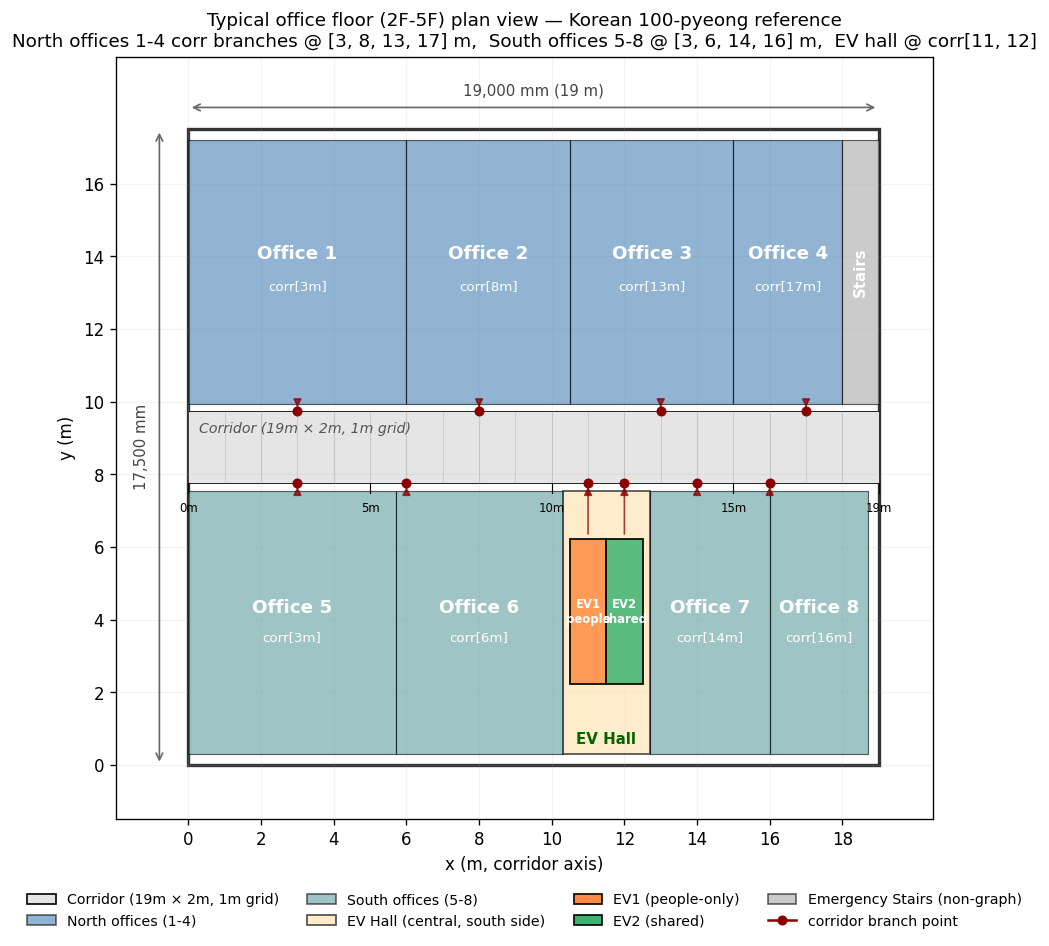
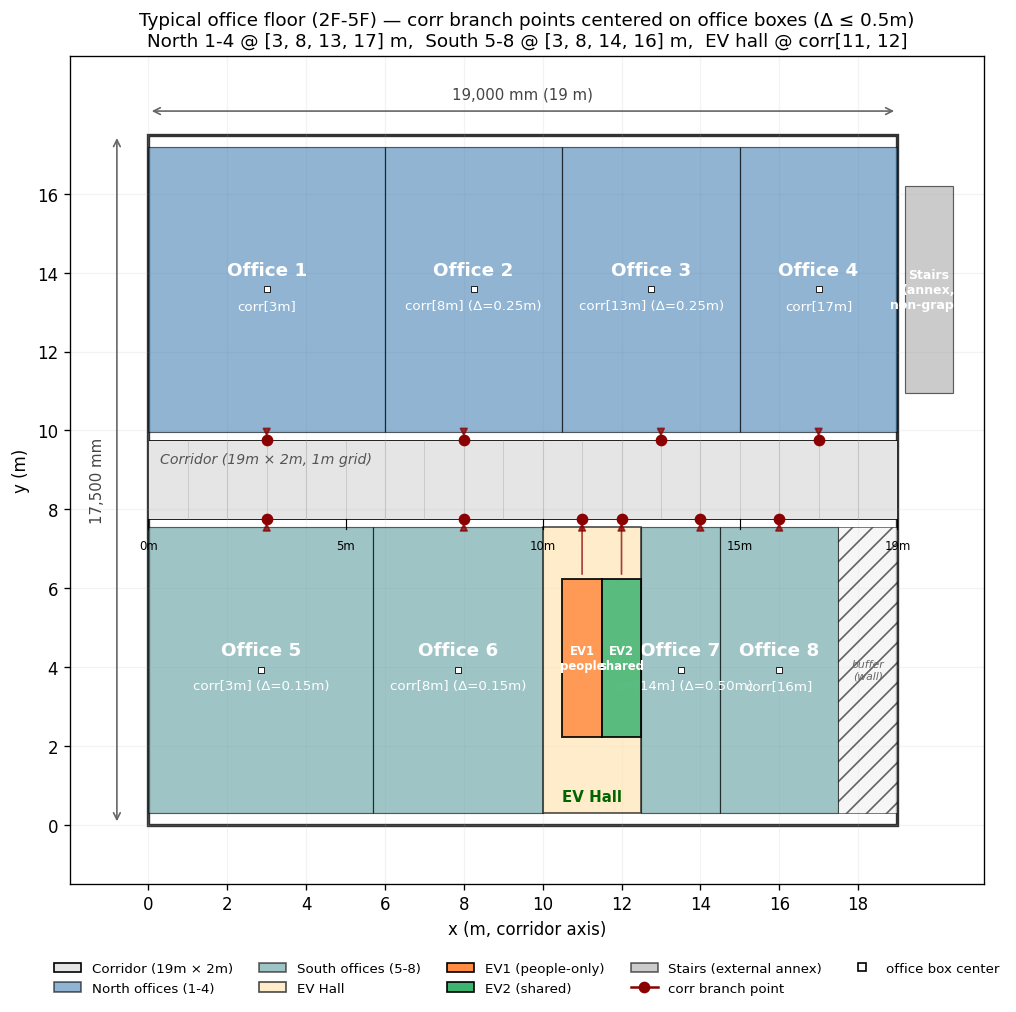
fix Office 6 graph position + center all corr branch points on office boxes
User flagged that Office 4, 6, 8 branch points did not align with their
visual office centers. Verified and fixed:

  before:
    Office 4 (corr[17]) box x=15-18 → center 16.5,  Δ = 0.5 m off-center
    Office 6 (corr[6])  box x=5.7-10.3 → center 8.0, Δ = 2.0 m off-center !
    Office 8 (corr[16]) box x=16-18.7 → center 17.35, Δ = 1.35 m off-center
  after:
    Office 4 (corr[17]) box x=15-19  → center 17.0, Δ = 0.00 m ✓
    Office 6 (corr[8])  box x=5.7-10 → center 7.85, Δ = 0.15 m ✓
    Office 8 (corr[16]) box x=14.5-17.5 → center 16.0, Δ = 0.00 m ✓

Office 6 was the worst offender. Its graph position has been changed
from corr[6] to corr[8] (DEFAULT_OFFICE_POSITIONS_M index 5: 6 → 8).
This matches the reference 100-pyeong floor plan's actual Office 6
center at x ≈ 7.85 m (5,700 + 4,300/2 in the original dimension
markers). The two-meter shift is an intentional graph correction, not
just a visual rearrangement.

Office 4 and Office 8 visual boxes were resized:
  - Office 4 widened from 3 m to 4 m (x=15-19) so corr[17] is centered;
    the emergency stair is now drawn as an external annex to the right
    of the 19 m main footprint, matching the reference floor plan where
    the stair sits in a separate column outside the main width.
  - South row redistribution: EV Hall (10-12.5), Office 7 (12.5-14.5,
    2 m wide, corr[14] is 0.5 m from center — acceptable), Office 8
    (14.5-17.5, 3 m wide, corr[16] exactly at center). The remaining
[…]

diff --git a/tests/test_space.py b/tests/test_space.py
@@ -48,9 +48,10 @@ def test_corridor_consecutive_connectivity(baseline_graph) -> None:
 
 
 def test_office_branch_positions_match_floor_plan(baseline_graph) -> None:
-    """Floor plan layout: 4 north offices [3, 8, 13, 17] + 4 south offices [3, 6, 14, 16],
-    central EV hall at [11, 12]."""
-    assert DEFAULT_OFFICE_POSITIONS_M == (3, 8, 13, 17, 3, 6, 14, 16)
+    """Floor plan layout: 4 north offices [3, 8, 13, 17] + 4 south offices [3, 8, 14, 16].
+    Office 6 at corr[8] aligns with the reference floor plan's south-side office center
+    (~7.85 m), and avoids the 2 m misalignment that corr[6] introduced earlier."""
+    assert DEFAULT_OFFICE_POSITIONS_M == (3, 8, 13, 17, 3, 8, 14, 16)
     assert DEFAULT_OFFICE_SIDES == (
         "north", "north", "north", "north",
         "south", "south", "south", "south",

diff --git a/simulation/space.py b/simulation/space.py
@@ -13,7 +13,7 @@ from __future__ import annotations
 
 import networkx as nx
 
-DEFAULT_OFFICE_POSITIONS_M: tuple[int, ...] = (3, 8, 13, 17, 3, 6, 14, 16)
+DEFAULT_OFFICE_POSITIONS_M: tuple[int, ...] = (3, 8, 13, 17, 3, 8, 14, 16)
 DEFAULT_OFFICE_SIDES: tuple[str, ...] = (
     "north", "north", "north", "north",
     "south", "south", "south", "south",